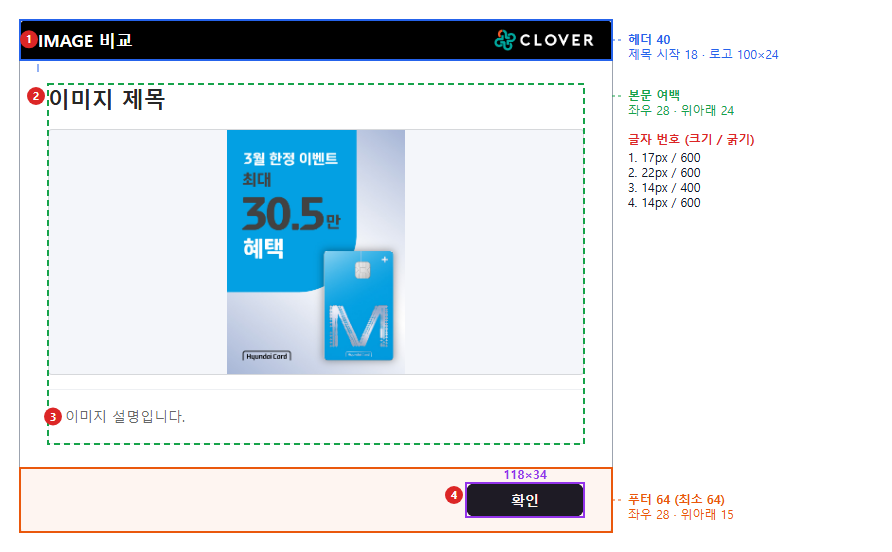
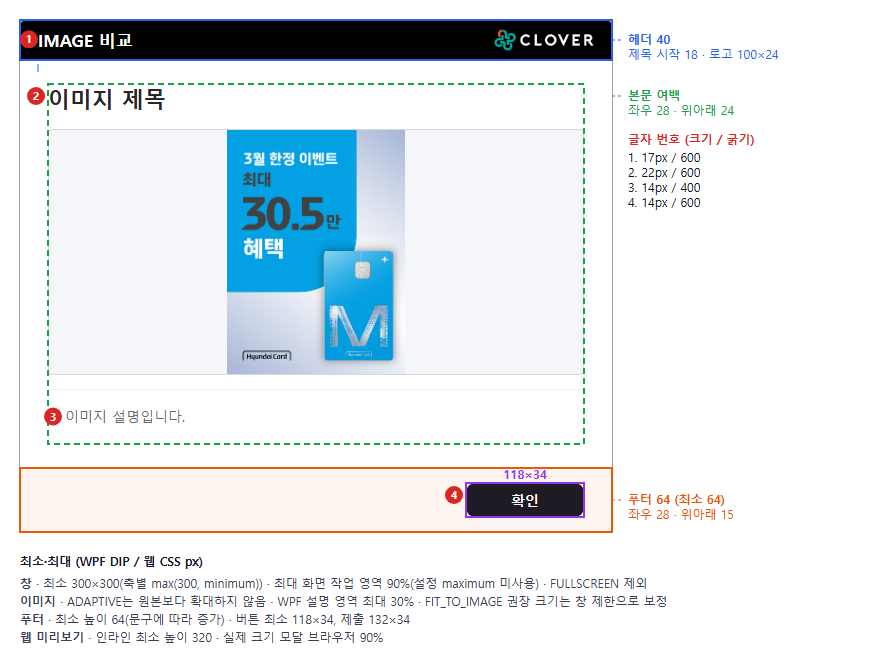
dev: 61_레이아웃최소최대_가이드표시_추가

diff --git a/zero-rule-web/main/src/features/PopupcommonComponent/guide/guideData.ts b/zero-rule-web/main/src/features/PopupcommonComponent/guide/guideData.ts
@@ -16,6 +16,9 @@
  *  4) 설계 배경·정책 상세는 docs 문서에 두고 화면에는 사용 방법과 주의사항만 쓴다.  5) 다른 탭에서 이미 설명한 내용은 반복하지 않는다.
  */
 
+import { POPUP_MIN_WINDOW_SIZE } from '../popupCommon';
+import { POPUP_LAYOUT } from '../popupLayout';
+
 /** 설명 범위: COMMON = 범용, PROTO = proto(RgstPop) 전용 */
 export type GuideScope = 'COMMON' | 'PROTO';
 
@@ -76,6 +79,46 @@ export interface GuideProcess {
   parent: string[];
   notes?: string[];
 }
+
+/** 팝업 레이아웃 최소·최대 한 줄(사용 순서 탭 표) */
+export interface GuideLayoutLimit {
+  /** 창 모드·유형·화면 */
+  target: string;
+  min: string;
+  max: string;
+  note?: string;
+}
+
+const MIN = POPUP_MIN_WINDOW_SIZE;
+const BUTTON = POPUP_LAYOUT.button;
+
+/*
+ * POL-14-01 : 공통 프론트 경계
+ * ■ 팝업 레이아웃 최소·최대(가이드 사용 순서 탭 「팝업 크기 최소·최대」)
+ * - 근거 문서: docs/design/61_POPUP_LAYOUT_GUIDE.md 「최소·최대 크기 — 전체 레이아웃」. 수치를 바꾸면 문서와 이 표를 함께 고친다.
+ * - 창 최소(300)·푸터·버튼 값은 실제 상수(POPUP_MIN_WINDOW_SIZE·POPUP_LAYOUT)에서 읽는다. WPF 전용 값은 문서 기준 숫자다.
+ */
+export const LAYOUT_LIMITS: { windows: GuideLayoutLimit[]; types: GuideLayoutLimit[]; preview: GuideLayoutLimit[] } = {
+  windows: [
+    { target: 'FIXED', min: `${MIN}×${MIN} (입력한 최소값이 더 크면 그 값)`, max: '입력한 최대값과 화면의 95% 중 작은 값', note: '입력한 너비·높이로 열고 최소·최대 사이로 맞춥니다.' },
+    { target: 'RATIO', min: `${MIN}×${MIN}`, max: '입력한 최대값과 화면의 100% 중 작은 값', note: '화면 크기에 비율(0.1~1.0)을 곱합니다.' },
+    { target: 'AUTO', min: `${MIN}×${MIN}`, max: '입력한 최대값과 화면의 90% 중 작은 값', note: '내용 크기에 맞춥니다.' },
+    { target: 'FULLSCREEN', min: '제한 없음', max: '모니터 전체', note: '최소·최대 값을 쓰지 않습니다.' },
+    { target: 'IMAGE 유형', min: `${MIN}×${MIN}`, max: '화면의 90%', note: '입력한 최대값 대신 화면 기준으로 제한합니다.' },
+  ],
+  types: [
+    { target: 'TEXT', min: '본문 자체 최소 없음', max: '없음', note: '창 안에서 줄을 바꾸고, 넘치면 세로로 스크롤합니다.' },
+    { target: 'IMAGE', min: '—', max: '원본 크기(ADAPTIVE는 확대하지 않음)', note: '이미지 설명 영역은 최대 30%입니다(WPF).' },
+    { target: 'VIDEO', min: '미리보기 영상 높이 170', max: '남는 높이', note: 'WPF는 남는 높이를 모두 쓰고 별도 최소가 없습니다.' },
+    { target: 'SURVEY · QUIZ', min: '선택지 높이 32 · 주관식 높이 96', max: '콘텐츠 너비 760 · 미리보기 주관식 높이 180', note: '760은 창 너비가 아니라 문항 영역의 최대 너비입니다.' },
+    { target: '동영상 + 퀴즈', min: '영상 높이 180', max: '영상 높이: 남는 높이의 70%(180보다 작으면 180)', note: '영상 아래 퀴즈는 760 너비 규칙을 따릅니다.' },
+    { target: '푸터·버튼', min: `푸터 높이 ${POPUP_LAYOUT.footerHeight} · 버튼 ${BUTTON.minWidth}×${BUTTON.height}(제출 ${BUTTON.submitMinWidth}×${BUTTON.height})`, max: '없음', note: '안내 문구가 길면 푸터가 위로 늘어납니다.' },
+  ],
+  preview: [
+    { target: 'InlinePopupPreview', min: '미리보기 높이 320', max: '부모 영역', note: '실제 팝업 창의 최소 높이가 아닙니다.' },
+    { target: 'PopupPreviewDialog', min: `${MIN}×${MIN}`, max: '브라우저 화면의 96%(IMAGE는 90%)', note: 'WPF는 모드에 따라 95%·100%·90%라 크기가 조금 다를 수 있습니다.' },
+  ],
+};
 
 export const PROCESSES: GuideProcess[] = [
   // ── 공통 사용: 입력값 받기 → 미리보기 → 필요한 항목만 가져와 저장 ──

diff --git a/zero-rule-web/main/src/features/PopupcommonComponent/guide/tabs/GuideProcessTab.tsx b/zero-rule-web/main/src/features/PopupcommonComponent/guide/tabs/GuideProcessTab.tsx
@@ -1,5 +1,5 @@
-import { Alert, Box, Chip, Stack, Typography } from '@mui/material';
-import { COMPONENTS, PROCESSES, type GuideProcess, type GuideScope } from '../guideData';
+import { Alert, Box, Chip, Stack, Table, TableBody, TableCell, TableHead, TableRow, Typography } from '@mui/material';
+import { COMPONENTS, LAYOUT_LIMITS, PROCESSES, type GuideLayoutLimit, type GuideProcess, type GuideScope } from '../guideData';
 import { Bullets, C, Page, RichText, ScopeChip, Section } from '../GuideUi';
 
 const SCOPE_TITLES: Record<GuideScope, string> = {
@@ -51,6 +51,41 @@ function ProcessSection({ process }: { process: GuideProcess }) {
   );
 }
 
+function LimitTable({ title, rows }: { title: string; rows: GuideLayoutLimit[] }) {
+  return (
+    <Box>
+      <Typography sx={{ fontSize: 14.5, fontWeight: 700, mb: 0.75 }}>{title}</Typography>
+      <Table size="small" sx={{ '& td, & th': { fontSize: 14, py: 1, verticalAlign: 'top', lineHeight: 1.6 }, '& th': { fontWeight: 700, bgcolor: '#f8fafc' } }}>
+        <TableHead><TableRow><TableCell sx={{ width: 170 }}>대상</TableCell><TableCell sx={{ width: '24%' }}>최소</TableCell><TableCell sx={{ width: '28%' }}>최대</TableCell><TableCell>설명</TableCell></TableRow></TableHead>
+        <TableBody>
+          {rows.map((row) => (
+            <TableRow key={row.target}>
+              <TableCell><C>{row.target}</C></TableCell><TableCell>{row.min}</TableCell><TableCell>{row.max}</TableCell><TableCell>{row.note}</TableCell>
+            </TableRow>
+          ))}
+        </TableBody>
+      </Table>
+    </Box>
+  );
+}
+
+/*
+ * POL-14-01 : 공통 프론트 경계
+ * ■ 팝업 크기 최소·최대 표(guideData.LAYOUT_LIMITS)
+ * - 미리보기(⑤)에서 보이는 창·콘텐츠 크기가 어디까지 줄고 늘어나는지 한곳에 보여 준다. 근거는 docs/design/61_POPUP_LAYOUT_GUIDE.md.
+ */
+function LayoutLimitsSection() {
+  return (
+    <Section id="guide-process-layout-limits" title="팝업 크기 최소·최대" description="창 크기 모드와 유형별 콘텐츠가 줄고 늘어나는 한계입니다. WPF 값은 DIP, 미리보기 값은 CSS px입니다.">
+      <Stack spacing={2.5}>
+        <LimitTable title="창 크기" rows={LAYOUT_LIMITS.windows} />
+        <LimitTable title="유형별 콘텐츠" rows={LAYOUT_LIMITS.types} />
+        <LimitTable title="관리자 미리보기" rows={LAYOUT_LIMITS.preview} />
+      </Stack>
+    </Section>
+  );
+}
+
 /**
  * POL-14-01 : 공통 프론트 경계
  * ■ 가이드: 사용 순서 탭
@@ -75,8 +110,10 @@ export default function GuideProcessTab() {
             <Stack direction="row" spacing={1} flexWrap="wrap" useFlexGap>
               {processes.map((process) => <Chip key={process.id} label={process.title} onClick={() => jump(process.id)} variant="outlined"
                 color={scope === 'COMMON' ? 'primary' : 'warning'} sx={{ fontSize: 13.5 }} />)}
+              {scope === 'COMMON' && <Chip label="크기 최소·최대" onClick={() => jump('layout-limits')} variant="outlined" color="primary" sx={{ fontSize: 13.5 }} />}
             </Stack>
             {processes.map((process) => <ProcessSection key={process.id} process={process} />)}
+            {scope === 'COMMON' && <LayoutLimitsSection />}
           </Stack>
         );
       })}

diff --git a/docs/design/61_POPUP_LAYOUT_GUIDE.md b/docs/design/61_POPUP_LAYOUT_GUIDE.md
@@ -20,7 +20,7 @@
 node scripts/verify-popup-parity.cjs
 ```
 
-- 결과는 `.offline-verify/popup-parity/`에 생긴다. `<ID>.guide.png`(이 문서의 그림), `<ID>.side.png`(웹·WPF 나란히), `guide-figures.md`(유형별 그림·번호표), `texts.md`(전체 글자 대조)다.
+- 결과는 `.offline-verify/popup-parity/`에 생긴다. `<ID>.guide.png`(이 문서의 그림 — 그림 아래 칸에 유형별 최소·최대, 설문·퀴즈 콘텐츠 너비(최대 760)·영상 높이(최소 180/170) 실측 상자 포함), `<ID>.side.png`(웹·WPF 나란히), `guide-figures.md`(유형별 그림·번호표), `texts.md`(전체 글자 대조)다.
 - 레이아웃을 바꾼 뒤 다시 실행해 아래 그림을 `61_popup_layout_guide/`에 덮어쓰고, 유형별 절은 `guide-figures.md` 내용으로 바꾼다.
 - 한계: 로그인한 관리자 화면이 아닌 같은 컴포넌트 하네스다. 브라우저 확대·Windows 배율·폐쇄망 전역 CSS는 포함하지 않는다. WPF 영상(WebView2)은 캡처에 그려지지 않는다.
 
@@ -115,6 +115,13 @@ node scripts/verify-popup-parity.cjs
 | 2 | 공지 본문 첫 줄입니다. 둘째 줄입니다. | 15/400 | 15/400 |
 | 3 | 확인 | 14/600 | 14/600 |
 
+최소·최대(그림 아래 칸과 같음):
+
+- **창** · 최소 300×300(축별 max(300, minimum)) · 최대 설정 maximum과 화면 FIXED 95% / RATIO 100% / AUTO 90% 중 작은 값 · FULLSCREEN 제외
+- **본문** · 자체 최소·최대 없음 — 창 안에서 줄바꿈하고 넘치면 세로 스크롤
+- **푸터** · 최소 높이 64(문구에 따라 증가) · 버튼 최소 118×34, 제출 132×34
+- **웹 미리보기** · 인라인 최소 높이 320 · 실제 크기 모달 브라우저 96%
+
 웹·WPF 나란히: [PARITY-TEXT-560x750.side.png](61_popup_layout_guide/PARITY-TEXT-560x750.side.png)
 
 ### TEXT 좁은 폭·긴 문구·나중에 보기·다시 보지 않기 (360×480)
@@ -129,6 +136,13 @@ node scripts/verify-popup-parity.cjs
 | 2 | 긴 문구 줄바꿈 확인용 본문입니다. 좁은 창 | 15/400 | 15/400 |
 | 3 | 나중에 보기 | 14/600 | 14/600 |
 | 4 | 30일간 보지 않기 | 14/400 | 14/400 |
+
+최소·최대(그림 아래 칸과 같음):
+
+- **창** · 최소 300×300(축별 max(300, minimum)) · 최대 설정 maximum과 화면 FIXED 95% / RATIO 100% / AUTO 90% 중 작은 값 · FULLSCREEN 제외
+- **본문** · 자체 최소·최대 없음 — 창 안에서 줄바꿈하고 넘치면 세로 스크롤
+- **푸터** · 최소 높이 64(문구에 따라 증가) · 버튼 최소 118×34, 제출 132×34
+- **웹 미리보기** · 인라인 최소 높이 320 · 실제 크기 모달 브라우저 96%
 
 웹·WPF 나란히: [PARITY-TEXT-NARROW-LONG.side.png](61_popup_layout_guide/PARITY-TEXT-NARROW-LONG.side.png)
 
@@ -148,6 +162,13 @@ node scripts/verify-popup-parity.cjs
 | 6 | 필수 응답 0/1 · 1문항 남음 | 12/400 | 12/400 |
 | 7 | 제출 | 14/600 | 14/600 |
 
+최소·최대(그림 아래 칸과 같음):
+
+- **창** · 최소 300×300(축별 max(300, minimum)) · 최대 설정 maximum과 화면 FIXED 95% / RATIO 100% / AUTO 90% 중 작은 값 · FULLSCREEN 제외
+- **설문·퀴즈** · 콘텐츠 최대 너비 760(창 너비와 별개) · 선택지 최소 높이 32 · 주관식 최소 96(웹 96~180)
+- **푸터** · 최소 높이 64(문구에 따라 증가) · 버튼 최소 118×34, 제출 132×34
+- **웹 미리보기** · 인라인 최소 높이 320 · 실제 크기 모달 브라우저 96%
+
 웹·WPF 나란히: [PARITY-SURVEY.side.png](61_popup_layout_guide/PARITY-SURVEY.side.png)
 
 ### QUIZ — OX·선다형 (720×680)
@@ -166,6 +187,13 @@ node scripts/verify-popup-parity.cjs
 | 6 | 필수 응답 0/2 · 2문항 남음 | 12/400 | 12/400 |
 | 7 | 제출 | 14/600 | 14/600 |
 
+최소·최대(그림 아래 칸과 같음):
+
+- **창** · 최소 300×300(축별 max(300, minimum)) · 최대 설정 maximum과 화면 FIXED 95% / RATIO 100% / AUTO 90% 중 작은 값 · FULLSCREEN 제외
+- **설문·퀴즈** · 콘텐츠 최대 너비 760(창 너비와 별개) · 선택지 최소 높이 32 · 주관식 최소 96(웹 96~180)
+- **푸터** · 최소 높이 64(문구에 따라 증가) · 버튼 최소 118×34, 제출 132×34
+- **웹 미리보기** · 인라인 최소 높이 320 · 실제 크기 모달 브라우저 96%
+
 웹·WPF 나란히: [PARITY-QUIZ-OX.side.png](61_popup_layout_guide/PARITY-QUIZ-OX.side.png)
 
 ### IMAGE — ADAPTIVE (640×560)
@@ -181,6 +209,13 @@ node scripts/verify-popup-parity.cjs
 | 3 | 이미지 설명입니다. | 14/400 | 14/400 |
 | 4 | 확인 | 14/600 | 14/600 |
 
+최소·최대(그림 아래 칸과 같음):
+
+- **창** · 최소 300×300(축별 max(300, minimum)) · 최대 화면 작업 영역 90%(설정 maximum 미사용) · FULLSCREEN 제외
+- **이미지** · ADAPTIVE는 원본보다 확대하지 않음 · WPF 설명 영역 최대 30% · FIT_TO_IMAGE 권장 크기는 창 제한으로 보정
+- **푸터** · 최소 높이 64(문구에 따라 증가) · 버튼 최소 118×34, 제출 132×34
+- **웹 미리보기** · 인라인 최소 높이 320 · 실제 크기 모달 브라우저 90%
+
 웹·WPF 나란히: [PARITY-IMAGE.side.png](61_popup_layout_guide/PARITY-IMAGE.side.png)
 
 ### VIDEO (720×640)
@@ -195,6 +230,13 @@ node scripts/verify-popup-parity.cjs
 | 2 | 영상 제목 | 22/600 | 22/600 |
 | 3 | ▶ 00:00 / 00:00 | 14/400 | — |
 | 4 | 확인 | 14/600 | 14/600 |
+
+최소·최대(그림 아래 칸과 같음):
+
+- **창** · 최소 300×300(축별 max(300, minimum)) · 최대 설정 maximum과 화면 FIXED 95% / RATIO 100% / AUTO 90% 중 작은 값 · FULLSCREEN 제외
+- **영상** · WPF 남는 높이 사용(별도 min/max 없음) · 웹 미리보기만 최소 높이 170
+- **푸터** · 최소 높이 64(문구에 따라 증가) · 버튼 최소 118×34, 제출 132×34
+- **웹 미리보기** · 인라인 최소 높이 320 · 실제 크기 모달 브라우저 96%
 
 웹·WPF 나란히: [PARITY-VIDEO.side.png](61_popup_layout_guide/PARITY-VIDEO.side.png)
 
@@ -213,6 +255,14 @@ node scripts/verify-popup-parity.cjs
 | 5 | 영상에서 확인한 내용은? *하나 선택 | 16/600 | — |
 | 6 | 필수 응답 0/1 · 1문항 남음 | 12/400 | — |
 | 7 | 제출 | 14/600 | 14/600 |
+
+최소·최대(그림 아래 칸과 같음):
+
+- **창** · 최소 300×300(축별 max(300, minimum)) · 최대 설정 maximum과 화면 FIXED 95% / RATIO 100% / AUTO 90% 중 작은 값 · FULLSCREEN 제외
+- **영상(퀴즈 포함)** · 높이 = 폭×원본 비율, 최소 180 · 최대 max(180, 가용 높이×70%)
+- **설문·퀴즈** · 콘텐츠 최대 너비 760(창 너비와 별개) · 선택지 최소 높이 32 · 주관식 최소 96(웹 96~180)
+- **푸터** · 최소 높이 64(문구에 따라 증가) · 버튼 최소 118×34, 제출 132×34
+- **웹 미리보기** · 인라인 최소 높이 320 · 실제 크기 모달 브라우저 96%
 
 웹·WPF 나란히: [PARITY-VIDEO-QUIZ.side.png](61_popup_layout_guide/PARITY-VIDEO-QUIZ.side.png)
 

diff --git a/version-history/CHANGELOG.md b/version-history/CHANGELOG.md
@@ -1,5 +1,16 @@
 # 변경 이력
 
+## 2026-11-23-11 — dev: 61_레이아웃최소최대_가이드표시_추가
+
+- 이유 · 61 레이아웃 가이드의 최소·최대 값이 문서 표에만 있고, 유형별 그림과 관리자 웹 공통 컴포넌트 가이드 화면에는 표시되지 않음.
+- 변경 ·
+  - `scripts/verify-popup-parity.cjs`: 웹 측정에 설문·퀴즈 콘텐츠(`maxWidth 760` 요소)·영상 영역(`aspect/fill-video-area`) 상자 추가. 가이드 그림에 콘텐츠 너비(최대 760)·영상 높이(최소 180·최대 70% / 웹 최소 170) 표시와 그림 아래 유형별 최소·최대 칸(창·본문·이미지·영상·설문·퀴즈·푸터·웹 미리보기) 추가. `guide-figures.md`에도 같은 목록 출력. 화면 높이를 넘는 그림은 `captureBeyondViewport`로 전체 캡처.
+  - `docs/design/61_popup_layout_guide/*.guide.png` 7장 재생성, `61_POPUP_LAYOUT_GUIDE.md` 유형별 절에 최소·최대 목록 추가.
+  - 관리자 웹 가이드: `guideData.ts` `LAYOUT_LIMITS`(창 모드·유형·미리보기 13행, 300·푸터 64·버튼 118×34/132×34는 `POPUP_MIN_WINDOW_SIZE`·`POPUP_LAYOUT` 상수 참조), `GuideProcessTab.tsx`에 「팝업 크기 최소·최대」 절과 바로가기 칩 추가.
+- 주요 파일 · `scripts/verify-popup-parity.cjs`, `scripts/verify-popup-guide-render.cjs`, `docs/design/61_POPUP_LAYOUT_GUIDE.md`, `docs/design/61_popup_layout_guide/`, `docs/design/61_관리자_미리보기_컴포넌트화_TODO.md`, `zero-rule-web/main/src/features/PopupcommonComponent/guide/guideData.ts`, `guide/tabs/GuideProcessTab.tsx`.
+- 검증 · `verify-popup-parity` 54건 통과, 가이드 그림 육안 확인(VIDEO+QUIZ·좁은 폭 TEXT). `verify-popup-guide-render` 33건(최소·최대 표 13행·주요 수치·위치 검사 추가)·`verify-popup-guide-registry` 413건, `tsc --noEmit`, 변경 파일 eslint 통과. 관리자 웹 가이드 실화면은 확인하지 않음.
+- 상태 · 커밋·원격 반영.
+
 ## 2026-11-23-10 — dev: 28_굵기별글꼴_로컬실측_추가
 
 - 이유 · TODO28 §15 — 폐쇄망의 CSS 별칭 하나에 굵기별 `@font-face`·`local()`를 연결한 구조에서 편집기·미리보기·WPF가 같은 서체를 고르는지 로컬에서 재현·실측할 필요.

diff --git a/docs/design/61_관리자_미리보기_컴포넌트화_TODO.md b/docs/design/61_관리자_미리보기_컴포넌트화_TODO.md
@@ -269,6 +269,7 @@
 - [x] `scripts/verify-popup-parity.cjs` 6단계: 웹 흰 판 캡처 위에 헤더·본문 여백·푸터·버튼 영역과 글자 번호를 표시한 `<ID>.guide.png`와 유형별 번호표(`guide-figures.md`, 웹·WPF 실측)를 생성한다.
 - [x] 7세트(TEXT 560×750, TEXT 좁은 폭·긴 문구, SURVEY, QUIZ OX, IMAGE, VIDEO, VIDEO+QUIZ) 가이드 그림과 웹·WPF 나란히 캡처를 `docs/design/61_popup_layout_guide/`에 반입.
 - [x] 공통 창 구조 표(값 · 웹 상수 `POPUP_LAYOUT`·`PopupFooterButton` · WPF 선언·스타일), 푸터 배치 규칙, 알려진 차이, 레이아웃 변경 절차를 정리했다.
+- [x] (2026-11-23) 최소·최대 표시: 가이드 그림 아래에 유형별 창·콘텐츠 최소·최대 칸을 추가하고, 설문·퀴즈 콘텐츠 너비(최대 760)와 영상 높이(VIDEO+QUIZ 최소 180·최대 70%, 단독 웹 최소 170) 실측 상자를 그린다. 문서 유형별 절에도 같은 목록을 넣었다. 관리자 웹 가이드 「사용 순서」 탭에 「팝업 크기 최소·최대」 표(창 모드 5행·유형 6행·미리보기 2행, `guideData.LAYOUT_LIMITS`, 300·푸터·버튼 값은 실제 상수 참조)를 추가했다.
 - [ ] 폐쇄망 배율·전역 CSS 환경 캡처 추가.
 
 검증 · `verify-popup-parity.cjs` 54건 통과, 가이드 그림 7장 육안 확인(TEXT·좁은 폭·SURVEY·VIDEO+QUIZ).
